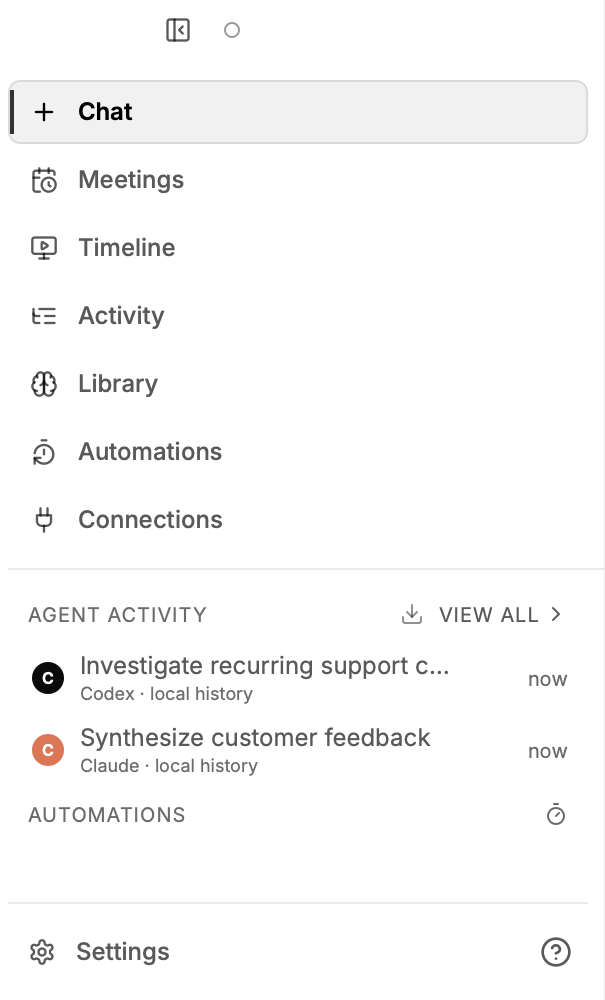
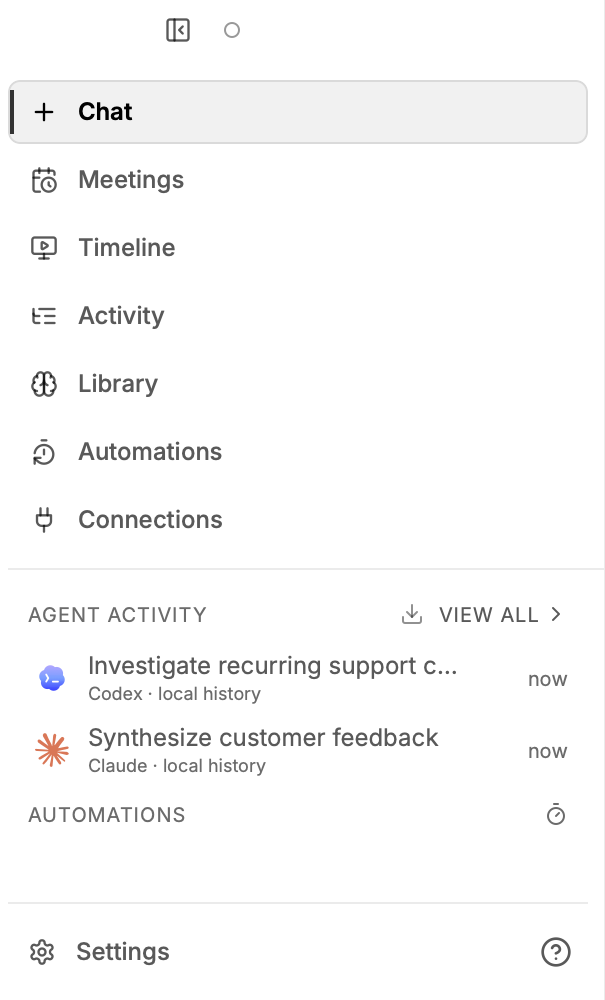
refine agent sidebar provider identity

Changed region(s): [[0.0595, 0.651, 0.714, 0.775]]

diff --git a/apps/screenpipe-app-tauri/components/chat-sidebar.tsx b/apps/screenpipe-app-tauri/components/chat-sidebar.tsx
@@ -31,6 +31,7 @@
  */
 
 import React, { useCallback, useEffect, useMemo, useRef, useState } from "react";
+import Image from "next/image";
 import { useInterval } from "@/lib/hooks/use-interval";
 import { useTauriEvent } from "@/lib/hooks/use-tauri-event";
 import {
@@ -146,7 +147,7 @@ import {
 } from "@/lib/utils/chat-sidebar-grouping";
 
 /** Max top-level rows shown in recents. Pipes use the authoritative inventory. */
-const SIDEBAR_CAP = 15;
+const SIDEBAR_CAP = 8;
 const PIPE_RUNS_PER_GROUP = 10;
 const PIPE_INVENTORY_PAGE_SIZE = 20;
 const DELETED_PIPE_EXECUTIONS_KEY = "screenpipe:deleted-pipe-executions";
@@ -2529,13 +2530,18 @@ export function SidebarChatRow({
       >
         {sourceLabel && (
           <span
-            className={cn(
-              "flex h-4 w-4 shrink-0 items-center justify-center rounded-full text-[8px] font-semibold text-white",
-              importedSource === "claude-code" ? "bg-[#D97757]" : "bg-foreground"
-            )}
-            aria-label={`${sourceLabel} chat`}
+            className="flex h-5 w-5 shrink-0 items-center justify-center"
+            aria-label={`${sourceLabel} provider`}
+            title={sourceLabel}
           >
-            {sourceLabel[0]}
+            <Image
+              src={importedSource === "claude-code" ? "/images/claude-ai.svg" : "/images/codex.svg"}
+              alt=""
+              width={17}
+              height={17}
+              className="h-[17px] w-[17px] object-contain"
+              unoptimized
+            />
           </span>
         )}
         {!insideGroup && (session.kind === "pipe-run" || session.kind === "pipe-watch") && (
@@ -2558,7 +2564,7 @@ export function SidebarChatRow({
           </span>
           {sourceLabel && (
             <span className="block truncate text-[9px] leading-3 sidebar-text-tertiary">
-              {sourceLabel} · local history
+              {sourceLabel} · {session.kind === "pipe-run" ? "automation" : "local history"}
             </span>
           )}
         </span>

diff --git a/apps/screenpipe-app-tauri/components/__tests__/chat-sidebar-focus.test.tsx b/apps/screenpipe-app-tauri/components/__tests__/chat-sidebar-focus.test.tsx
@@ -101,7 +101,7 @@ describe("SidebarChatRow current conversation", () => {
       importedFrom: { source: "codex", sourceId: "thread-1", importedAt: 100 },
     });
 
-    expect(screen.getByLabelText("Codex chat")).toBeVisible();
+    expect(screen.getByLabelText("Codex provider")).toBeVisible();
     expect(screen.getByText("Codex · local history")).toBeVisible();
   });
 });
